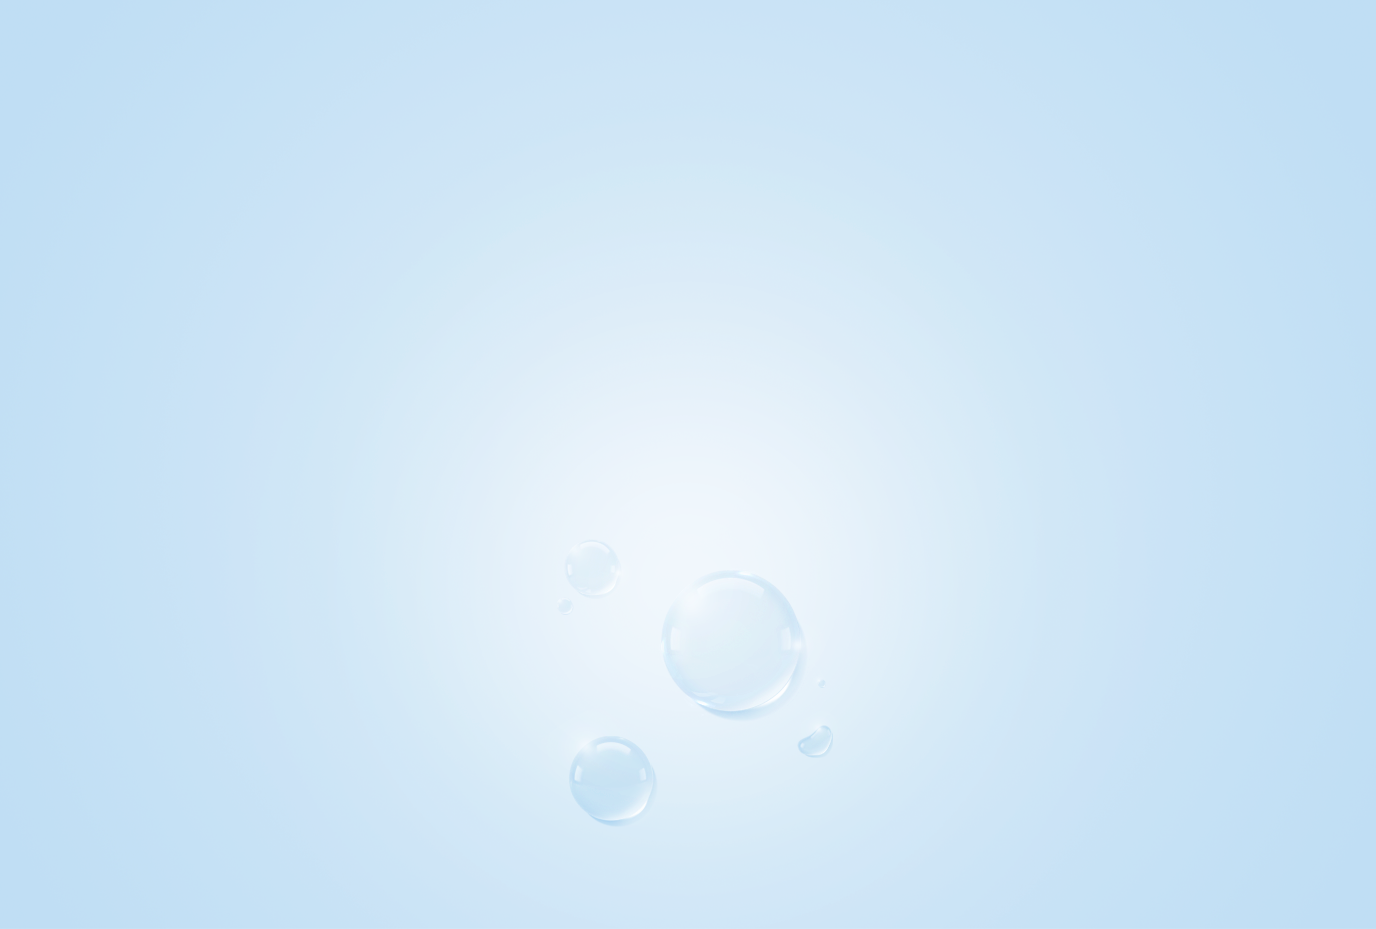
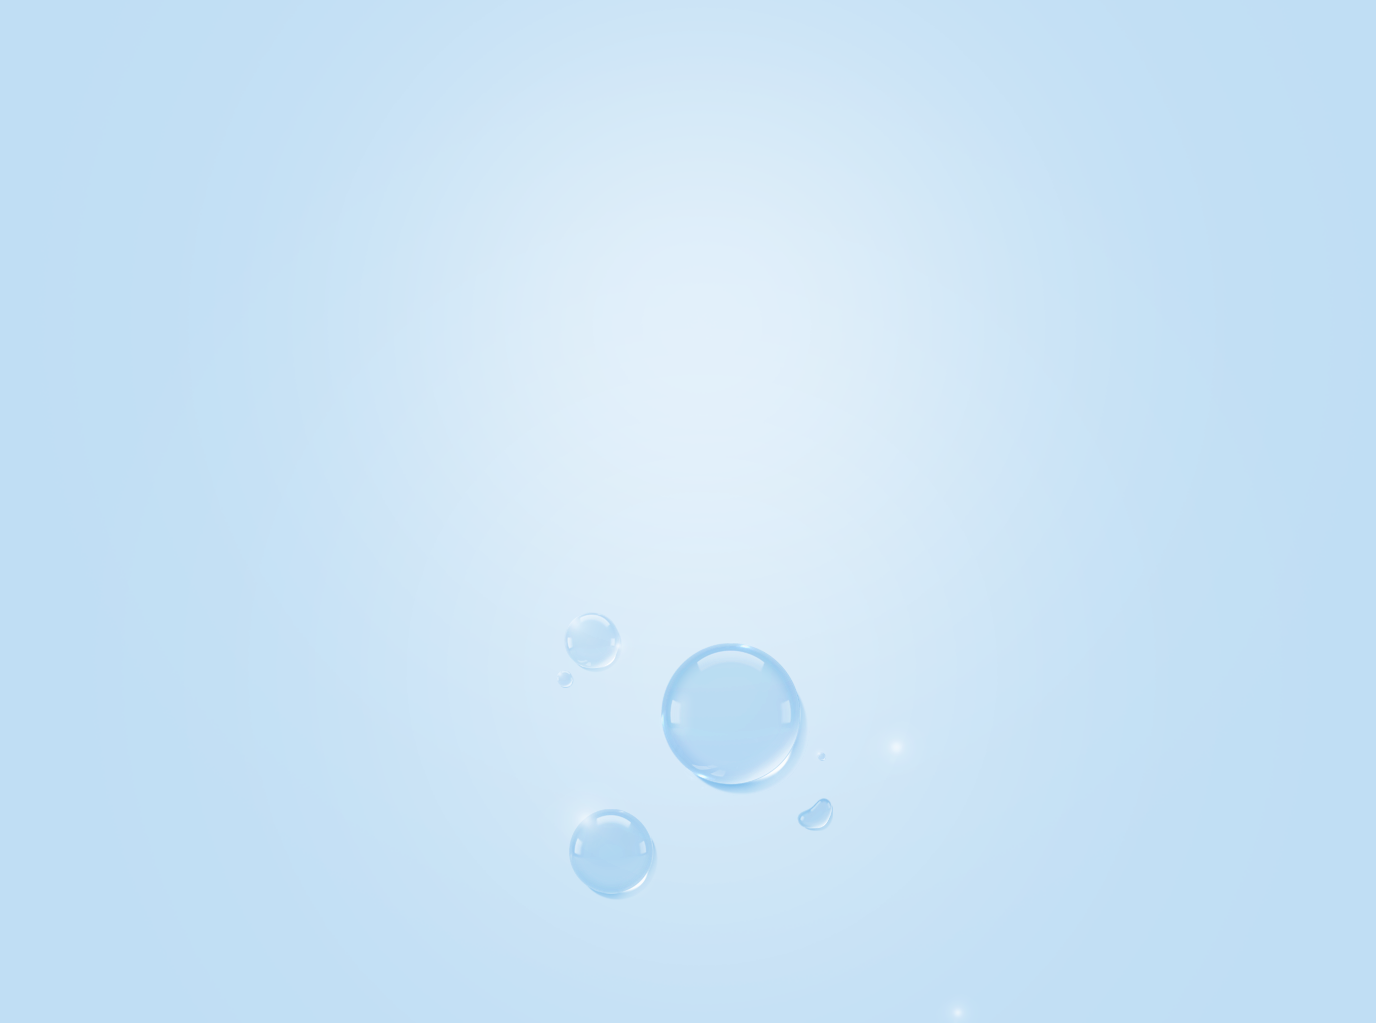
마이그레이션 (스킨케어) 텍스트 추가

diff --git a/_ui/responsive/theme-blue/css/akl-product02.css b/_ui/responsive/theme-blue/css/akl-product02.css
@@ -9,9 +9,9 @@ Editor : ji-min Park
 /**************************************************
 			          뷰티	비주얼 영역 bg 공통 모음
 ***************************************************/
-.visual-area.type02.ad-vitamin{background: #f8f8f8 url(../images/akl_product/beauty/bg_intensive_advanced_1480.png) no-repeat top center;height:929px;} /*01 인텐시브 비타민 */
+.visual-area.type02.ad-vitamin{background:#c1dff4 url(../images/akl_product/beauty/bg_intensive_advanced_1480.png) no-repeat top center;height:1023px;} /*01 인텐시브 비타민 */
 .visual-area.type02.boosting-infusion{background: #f8f8f8 url(../images/akl_product/beauty/bg_intensive_boosting_infusion.png) no-repeat top center;height:1039px;} /*01 인텐시브 부스팅 인퓨전  */
-.visual-area.type02.intensive-skin{background: #f8f8f8 url(../images/akl_product/beauty/bg_intensive_skincare.png) no-repeat top center;height:1085px;}   /*01 인텐시브 스킨케어 */
+.visual-area.type02.intensive-skin{background: #f8f8f8 url(../images/akl_product/beauty/bg_intensive_skincare.png) no-repeat top center;height:1144px;}   /*01 인텐시브 스킨케어 */
 .visual-area.type02.intensive-restore{background: #f8f8f8 url(../images/akl_product/beauty/bg_intensive_night_restore.png) no-repeat top center;height:1098px;} /*01 인텐시브 리스토어 프로그램*/
 .visual-area.type02.youth-xtend{background: #f8f8f8 url(../images/akl_product/beauty/bg_youth_xtend.png) no-repeat top center;height:1085px;}   /* 02 Youth_Xtend*/
 .visual-area.type02.youth-xtend.cream{background: #f8f8f8 url(../images/akl_product/beauty/bg_youth_xtend.png) no-repeat top center;height:900px;}   /* 02 Youth_Xtend*/
@@ -49,16 +49,6 @@ Editor : ji-min Park
 
 
 
-
-
-
-
-
-
-
-
-
-
 .fleft{float:left !important;/*padding: 30px 0 0;*/}
 .fleft .sie-box{padding-top:0;}
 .fright{float:right !important;}
@@ -68,6 +58,7 @@ Editor : ji-min Park
 .product-process-step .step-img{display:inline-block;text-align:center;vertical-align: bottom;min-height: 124px;}
 p, div, li span{word-break: keep-all;word-wrap: break-word;}
 .clearfix:after {content:''; display:block; clear:both;}
+.pt30{padding-top:30px;}
 
 
 /* 공통 컬러 */
@@ -143,6 +134,28 @@ p, div, li span{word-break: keep-all;word-wrap: break-word;}
 
 
 /* 1480 */
+.big-point-wrap{text-align: center;padding: 0 0 0;}
+.big-point-wrap .tit{font-size:60px;line-height:1.2;}
+.big-point-wrap .tit span{color:#008fc5;font-weight:400;}
+.big-point-wrap .tit strong{display:block;color:#008fc5;font-weight:400;}
+.big-point-wrap .desc{display: block;margin-top: 20px;font-size:18px;color:#808285;text-align:center;font-weight:400;}
+
+.small-point-wrap{text-align: center;padding: 0 0 0;}
+.small-point-wrap .tit{font-size: 44px;line-height:1.2;}
+.small-point-wrap .tit span{color:#008fc5;font-weight:400;}
+.small-point-wrap .tit strong{display:block;color:#008fc5;font-weight:400;}
+.small-point-wrap .desc{display: block;margin-top: 20px;font-size:18px;color:#808285;text-align:center;font-weight:400;}
+
+.mini-point-wrap{text-align: center;padding: 0 0 0;}
+.mini-point-wrap .tit{font-size: 32px;line-height:1.2;}
+.mini-point-wrap .tit span{color:#008fc5;font-weight:400;}
+.mini-point-wrap .tit strong{display:block;color:#008fc5;font-weight:400;}
+.mini-point-wrap .desc{display: block;font-size:18px;color:#808285;text-align:center;font-weight:400;}
+.mini-point-wrap.block{margin-top:40px;}
+
+
+
+
 .polymer{position: relative;display:inline-block;}
 .polymer img{width: auto; display: block;}
 .polymer p{position:absolute;letter-spacing:-1px;}
@@ -440,6 +453,18 @@ p, div, li span{word-break: keep-all;word-wrap: break-word;}
 	
 				
     /* 인텐시브 */
+    .big-point-wrap{padding: 0 7% 0;}
+	.big-point-wrap .tit{font-size:26px;}
+	.big-point-wrap .desc{font-size:16px;}
+	
+	.small-point-wrap{padding: 0 7% 0;}
+	.small-point-wrap .tit{font-size:22px;}
+	.small-point-wrap .desc{font-size:14px;}
+	
+	.mini-point-wrap{padding: 0 7% 0;}
+	.mini-point-wrap .tit{font-size:18px;}
+	.mini-point-wrap .desc{font-size:12px;}
+
     .ade-photo.sie-box{padding:15px 20px 0 !important;;}
     .ade-photo .reposom-wrap{margin:0 auto;}
     .ade-photo .reposom-wrap em.one{top: 8px;left: 74%;width:91px;height:34px;}

diff --git a/_ui/responsive/html/product/G10300_type_skin_care.html b/_ui/responsive/html/product/G10300_type_skin_care.html
@@ -65,7 +65,7 @@
 							<div class="panel-body product-detail">
 								<div class="accordion-collapse-wrapper">
 									<!-- 제품상세부분 시작 class 변경 -->
-									<div class="product-body-view">
+									<div class="product-body-view skin-care">
 
 										<!-- 비주얼 영역 -->
 										<div class="visual-area type02">
@@ -92,6 +92,44 @@
 										
 										<!--  content 영역 -->
 										<div class="detail-content-area">
+										
+											<div class="advantage-area">
+												<div class="big-point-wrap">
+													<p class="tit">순수함을 지키고 더욱 강력해진 <strong>비타민 C 항산화 케어의 시작</strong></p>
+													<span class="desc">아티스트리가 만든 혁신적인 비타민 C 항산화 케어</span>
+												</div>
+											</div>
+											
+											<div class="advantage-area">
+												<div class="big-point-wrap">
+													<p class="tit">탁월한 안티에이징 <span>스마트 레티놀 콤플렉스</span></p>
+													<span class="desc">아티스트리 타겟팅 콤플렉스로 레티놀의 흡수력 향상</span>
+												</div>
+											</div>
+											
+											
+											<div class="advantage-area">
+												<div class="small-point-wrap">
+													<p class="tit">현대 안티에이징의 희망 <span>&acute;레티놀&acute;</span></p>
+													<span class="desc">피부 노화 개선에 도움을 주는 콜라겐 생성 촉진<br>콜라겐의 생성을 촉진시켜 피부 속부터 탄탄하고 건강하게 차오르게 합니다.</span>
+												</div>
+											</div>
+											
+											
+											<!-- 미니 포인트 텍스트 -->
+											<div class="advantage-area">
+												<div class="mini-point-wrap">
+													<p class="tit">탁월한 레티놀의 효과 <span>흡수력</span></p>
+													<span class="desc">특허받은 아티스트리 타겟팅 콤플렉스가 레티놀의 흡수를 도와 탁월한 안티에이징 효과를 발휘하게 도와줍니다.</span>
+												</div>
+												
+												<div class="mini-point-wrap block">
+													<p class="tit">독점적인 특허 기술로 <span>피부 탄력</span> 강화</p>
+													<span class="desc">독점적인 특허 기술로 국소 부위의 주름을 개선할 뿐 아니라 피부 기초를 견고하게 하여 피부를 탄력 있게 해줍니다.</span>
+												</div>
+											</div>
+											<!--// 미니 포인트 텍스트 -->
+											
 										
 											<!-- content-style01  -->
 											<p class="title-h6" style="color:#f00000 !important; font-size:26px;padding:50px 0 0;margin:0 auto">제품상세 Style 4 : 왼쪽(텍스트 특징) + 오른쪽(비주얼 이미지)</p> 

diff --git a/_ui/responsive/html/product/beauty/skincare/intensive/AR_1480_10_Intensive_Skincare_Advanced_Vitamin_C_HA_Treatment.html b/_ui/responsive/html/product/beauty/skincare/intensive/AR_1480_10_Intensive_Skincare_Advanced_Vitamin_C_HA_Treatment.html
@@ -61,12 +61,13 @@
 
 										<!-- 비주얼 영역 -->
 										<div class="visual-area type02 ad-vitamin">
-											<div class="v-logo beauty"><img src="/_ui/responsive/theme-blue/images/akl_product/common/logo_artistry_intensive.png" alt=""></div>
+											<div class="v-logo beauty"><img src="/_ui/responsive/theme-blue/images/akl_product/common/logo_artistry_intensive.png" alt="ARTISTRY INTENSIVE 로고"></div>
 											<div class="txt-info-visual">
 												<div class="v-logo-txt">순수함을 지키고 더욱 강력해진 비타민 C 항산화 케어의 시작</div>
-												<div class="v-tit">인텐시브 스킨케어<br><span class="blue">어드밴스드 비타민 C + 히알루론산 트리트먼트</span></div>
+												<div class="v-tit">인텐시브 스킨케어<br><span class="blue">어드밴스드 비타민 C +<br>히알루론산 트리트먼트</span></div>
 												<p class="v-txt">한 번의 터치로 시작하는 더블 비타민 C의 강력한 항산화와 더블 히알루로산의 수분으로 탱탱하게 차오르는 탄력 쉐이핑.<br>
-														전문적인 피부 관리에서 영감을 받아 탄생한 홈더마 스킨케어 라인 인텐시브에서 아티스트리 최고 스테디셀러의 또 한번의 혁신을 직접 만나보세요.</p>												
+														전문적인 피부 관리에서 영감을 받아 탄생한 홈더마 스킨케어 라인 인텐시브에서 아티스트리 최고 스테디셀러의 또 한번의 혁신을 직접 만나보세요.
+												</p>												
 											</div>											
 											<div class="v-pro">
 												<span><img src="/_ui/responsive/theme-blue/images/akl_product/beauty/visual_top_1480.png" alt="인텐시브 스킨케어 어드밴스드 비타민 C + 히알루론산 트리트먼 상품이미지"></span>
@@ -76,6 +77,14 @@
 										
 										<!--  content 영역 -->
 										<div class="detail-content-area">
+										
+											<div class="advantage-area">
+												<div class="big-point-wrap">
+													<p class="tit">순수함을 지키고 더욱 강력해진 <strong>비타민 C 항산화 케어의 시작</strong></p>
+													<span class="desc">아티스트리가 만든 혁신적인 비타민 C 항산화 케어</span>
+												</div>
+											</div>
+										
 											<div class="advantage-area">									
 												<div class="advan-left v-top">												
 													<div class="sie-box">
